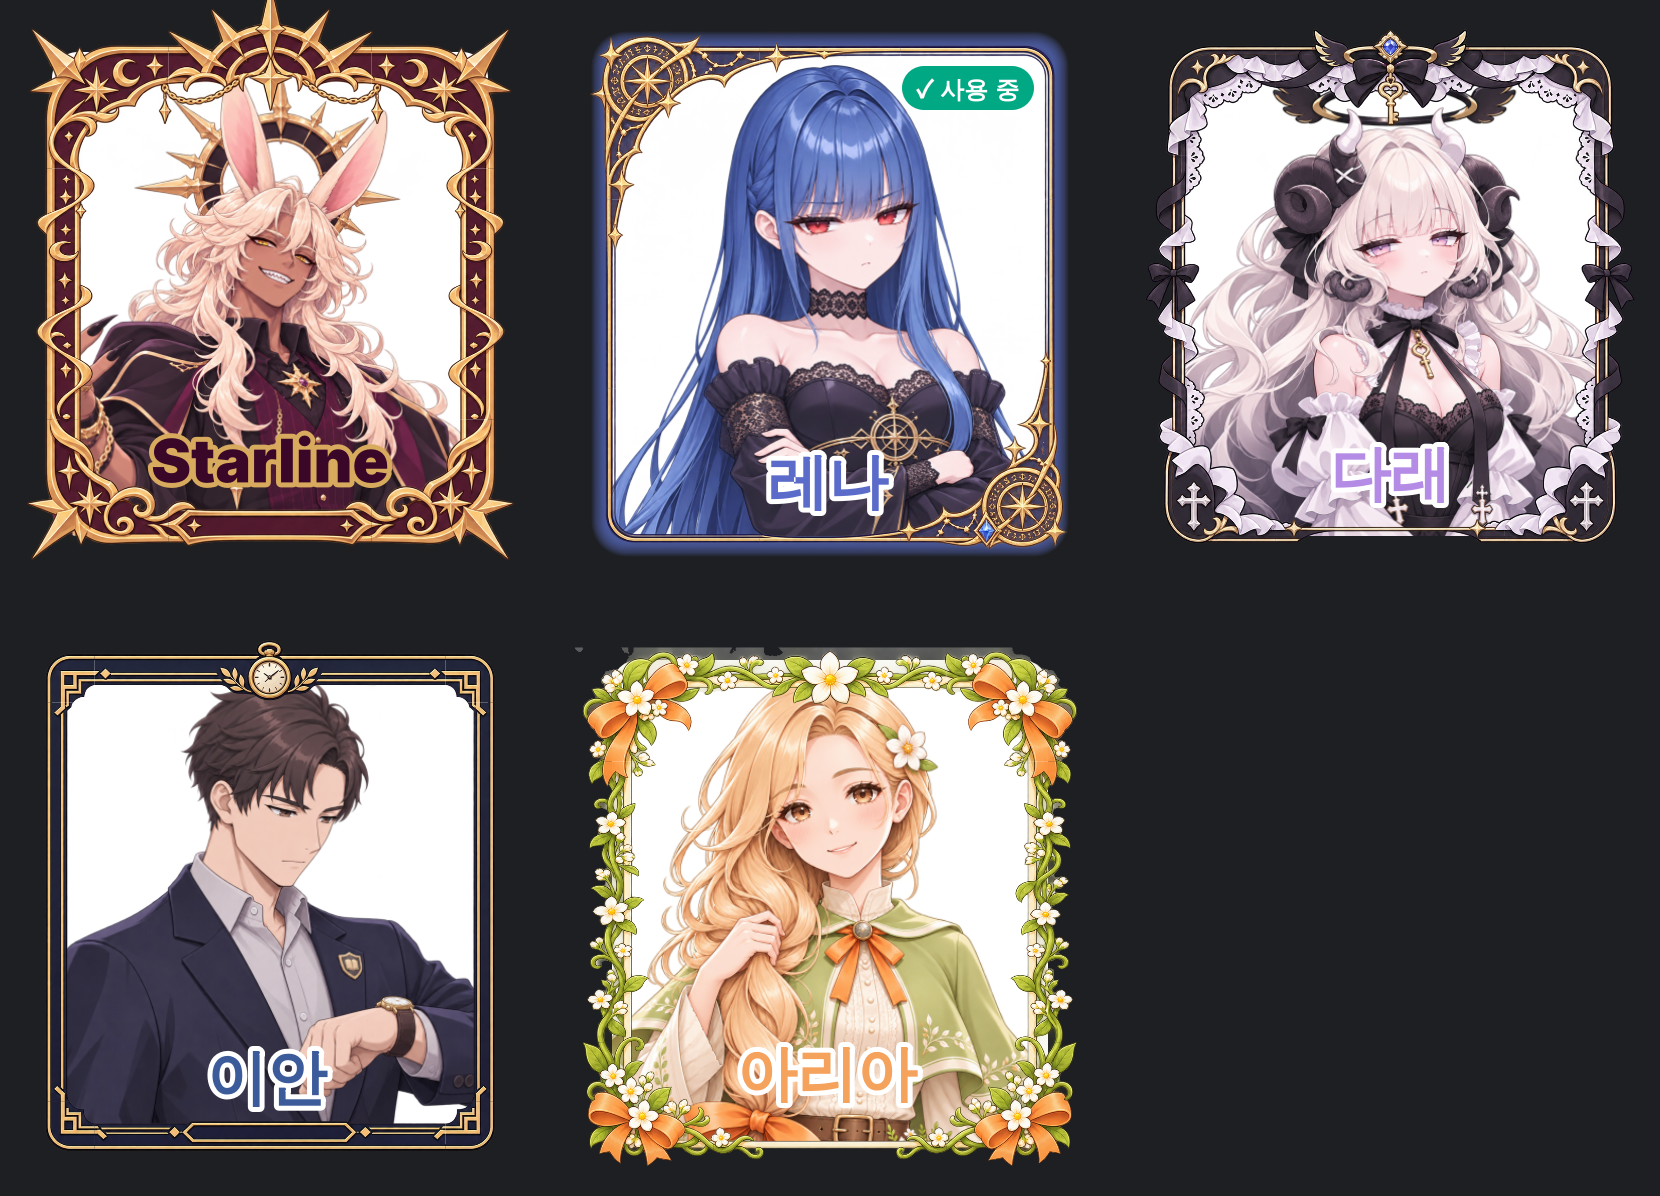
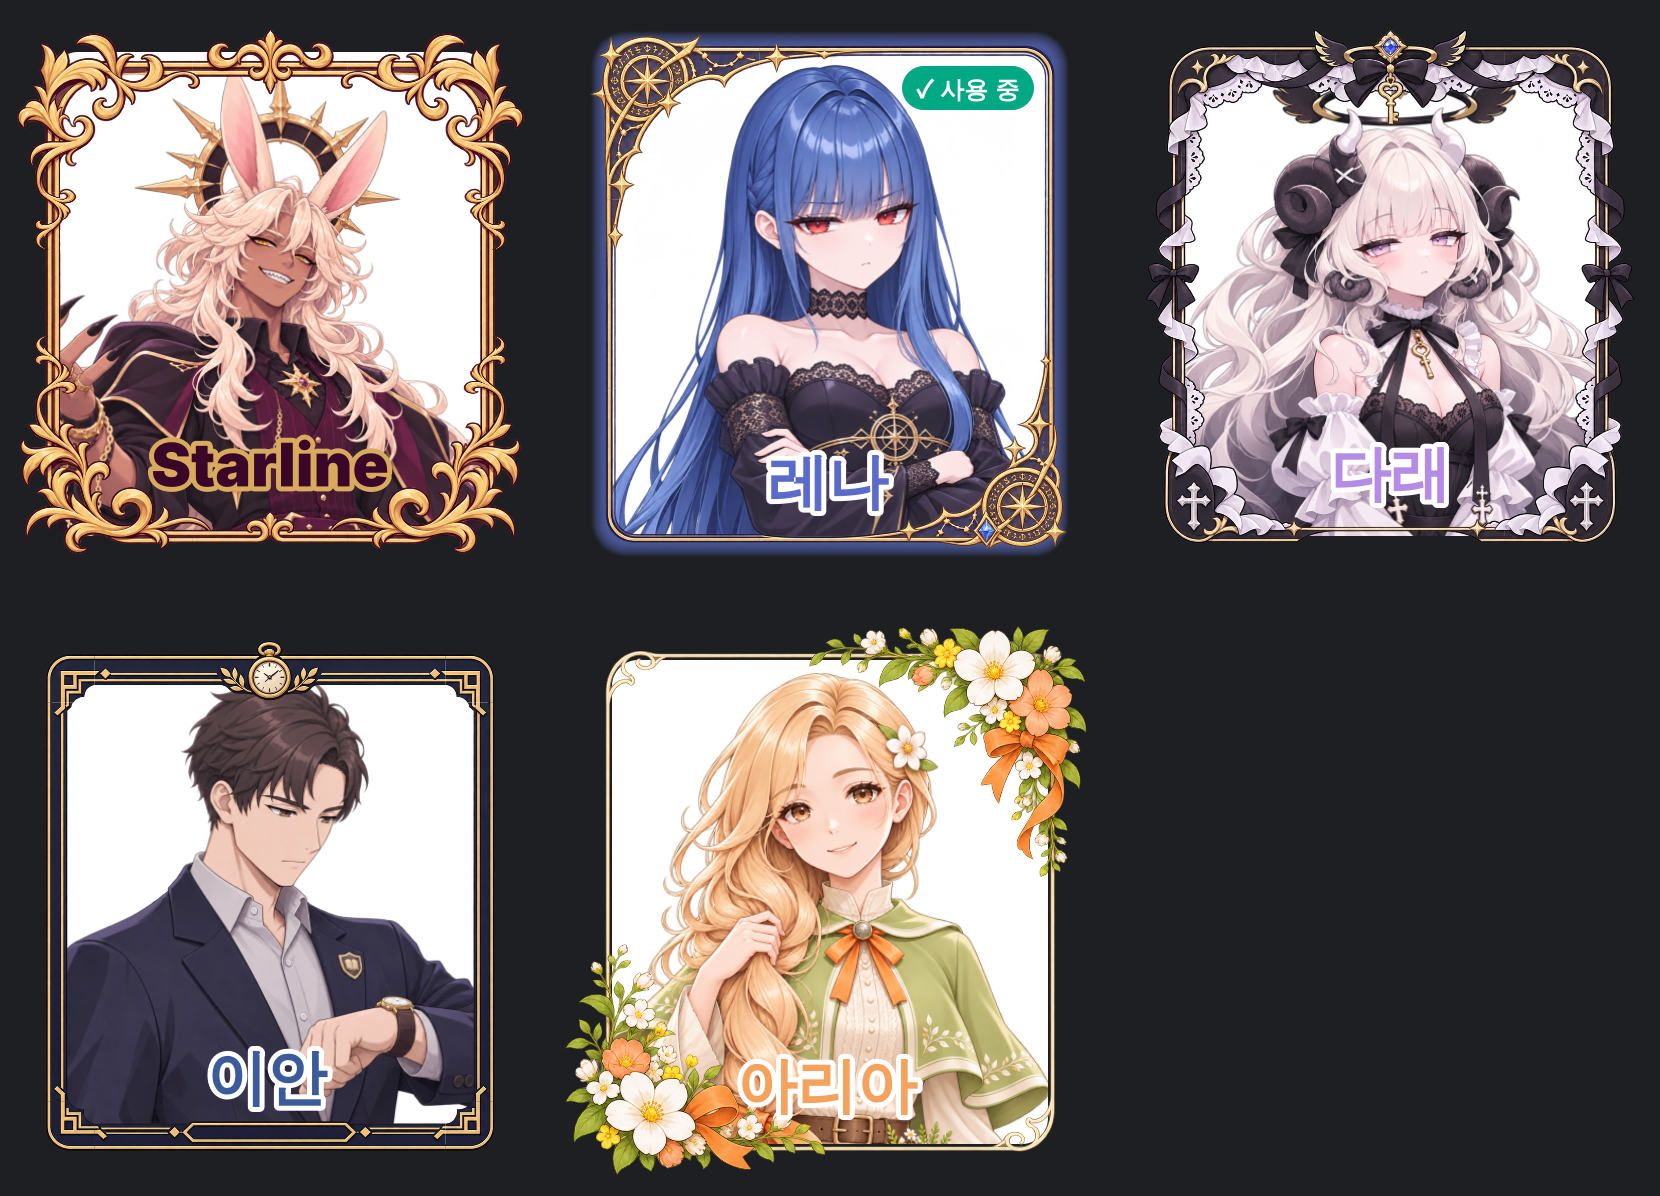
docs: 아리아·Starline 카드 테두리 새로 받음, 5명 시안 갱신
Claude-Session: https://claude.ai/code/session_012DFmYRntmyYRtXq4JsKkmi

Changed region(s): [[0.338, 0.5259, 0.6759, 0.99], [0.0, 0.0, 0.338, 0.464]]

diff --git a/docs/characters/사용자_할일.md b/docs/characters/사용자_할일.md
@@ -3,7 +3,7 @@
 기획 세션이 정리. 끝난 것은 지우거나 ✓로 바꾼다. 자세한 근거는 각 문서.
 
 ## A. 정할 것
-0. **캐릭터 카드 테두리(넣을지 보류 — 컨셉만 정함)**(사용자 11-25 — 컨셉별 장식 테두리를 카드에 늘 씌움, 그림으로) — GPT 요청문 `카드_테두리.md`, 5장(✓ 다래·레나·이안 확정, **아리아·Starline 컨셉 다시 — 레퍼런스 찾는 중**). 배지 위치(레나만 오른쪽 위 / 모두 오른쪽 위) 정하기. 선택 강조는 코드(포인트 색 빛 + 사용 중 배지)
+0. **캐릭터 카드 테두리(넣을지 보류 — 컨셉만 정함)**(사용자 11-25 — 컨셉별 장식 테두리를 카드에 늘 씌움, 그림으로) — GPT 요청문 `카드_테두리.md`, 5장 모두 있음(11-25 아리아·Starline 다시 만듦) — 앱에 넣을지만 정하면 됨. 배지 위치(레나만 오른쪽 위 / 모두 오른쪽 위) 정하기. 선택 강조는 코드(포인트 색 빛 + 사용 중 배지)
 1. 구간 퀘스트 — ✓ 25(2일 연속 쓰다듬기·찔러 보기·같이 게임하기). 75 2일 안에 보스 1마리 + 서사: '어떤 보스든 인정'·대사 확인(`호감도_퀘스트.md`). ✓ 50 이야기 이벤트(구조) — **캐릭터별 스토리** 생각하기. **100 특별 퀘스트**(후보 3-2절)
 2. 탭·시스템 이름 — 후보 단짝(추천)·동행·길동무·말동무·수호천사
 3. 50·100 알림 새 녹음 — 해금 뒤 바꾸기/섞기, 알림 전부/자주 나오는 것만

diff --git a/docs/characters/카드_테두리.md b/docs/characters/카드_테두리.md
@@ -21,6 +21,8 @@
   - 아리아 그림은 가장자리·안쪽에 옅은 막(알파 70 이하)이 있어 지움(가장자리·안쪽과 이어진 것만).
   - 이름은 **테두리 위에 다시 그림**(두꺼운 테두리 띠에 가리지 않게), 테두리별로 살짝 올림(Starline 14·아리아 8·이안 6·다래 4·레나 0px).
 
+- **아리아·Starline 다시 만든 것(사용자 11-25 '이쁘게 잘 나온 듯')**: `assets/{아리아,Starline}/카드_테두리.png`(1차는 `예전/카드_테두리_1차.png`). 옅은 막 없음(확인). 9칸 값 아리아 146·64·1106·1195(모서리 330), Starline 137·38·1052·1291(300). 5명 시안 다시 그림 `카드_테두리_5명.png`. 이로써 5장 모두 있음 — 넣을지는 사용자 보류 중.
+
 ## 요청문 (캐릭터별 GPT 대화에 — 첨부: 그 캐릭터 상반신 `<이름>/<이름>_상반신.png`, 색·분위기 참고)
 받은 그림은 `docs/characters/assets/<이름>/카드_테두리.png`로 올리면 기획이 카드에 씌운 시안을 만듦.
 
